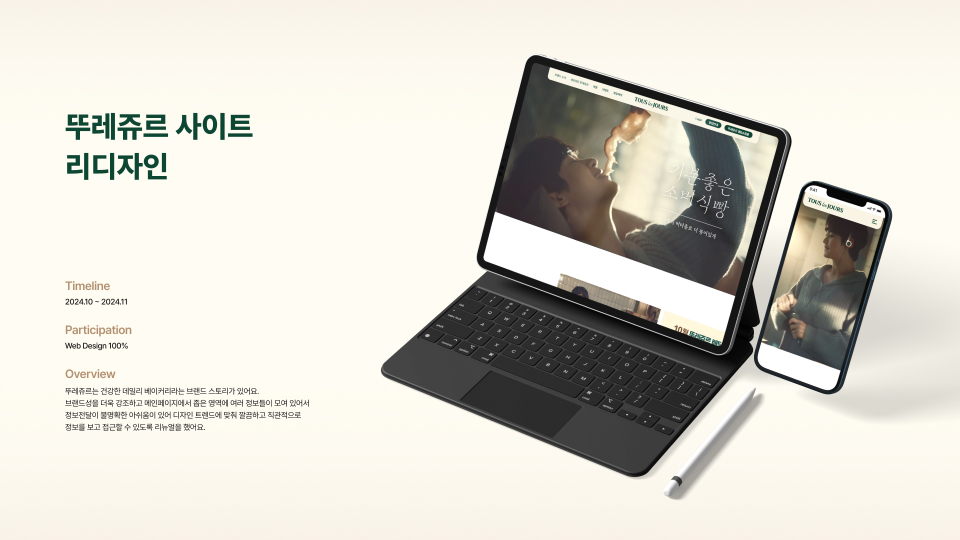
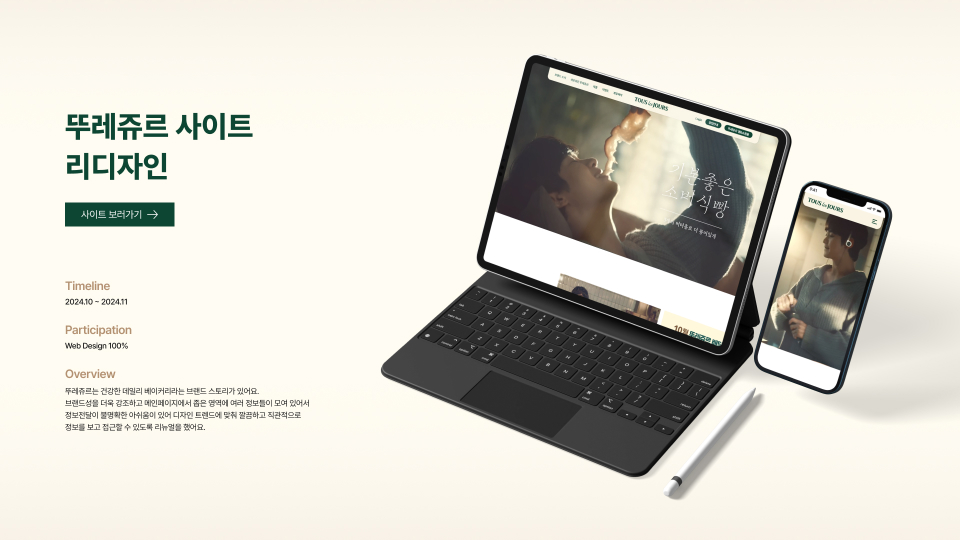
링크연결 및 썸네일 이미지 수정

Changed region(s): [[0.0625, 0.3556, 0.1875, 0.4444]]

diff --git a/taiyoung.html b/taiyoung.html
@@ -112,7 +112,11 @@
       </div>
     </header>
     <div class="spacing"></div>
-    <img src="img/8-1.jpg" alt="태영상선1">
+    <div class="gif">
+      <img src="img/8-1.jpg" alt="태영상선1">
+      <a href="https://parksoohee.github.io/taiyoung/" target="_blank" class="click click4"></a>
+    </div>
+    
     <img src="img/8-2.jpg" alt="태영상선2">
     <img src="img/8-3.jpg" alt="태영상선3">
     <img src="img/8-4.jpg" alt="태영상선4">

diff --git a/rootree.html b/rootree.html
@@ -115,7 +115,10 @@
       </div>
     </header>
     <div class="spacing"></div>
-    <img src="img/3-1.jpg" alt="rootree1">
+    <div class="gif">
+      <img src="img/3-1.jpg" alt="rootree1">
+      <a href="https://parksoohee.github.io/rootree/" target="_blank" class="click click3"></a>
+    </div>
     <img src="img/3-2.jpg" alt="rootree2">
     <img src="img/3-3.jpg" alt="rootree3">
     <img src="img/3-4.jpg" alt="rootree4">

diff --git a/css/sub_page.css b/css/sub_page.css
@@ -198,6 +198,10 @@ header.on{
   top: 37.5%;
   left: 6.8%;
 }
+.gif .click4{
+  top: 36.3%;
+  left: 6.8%;
+}
 .rootree_design{
   position: relative;
   padding: 180px 0;
